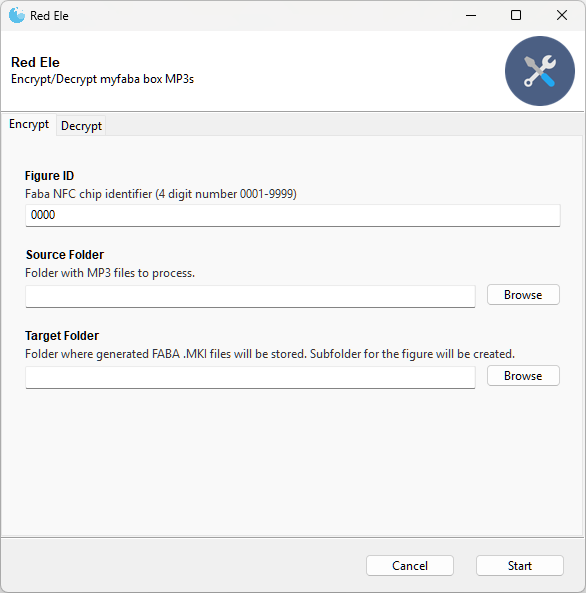
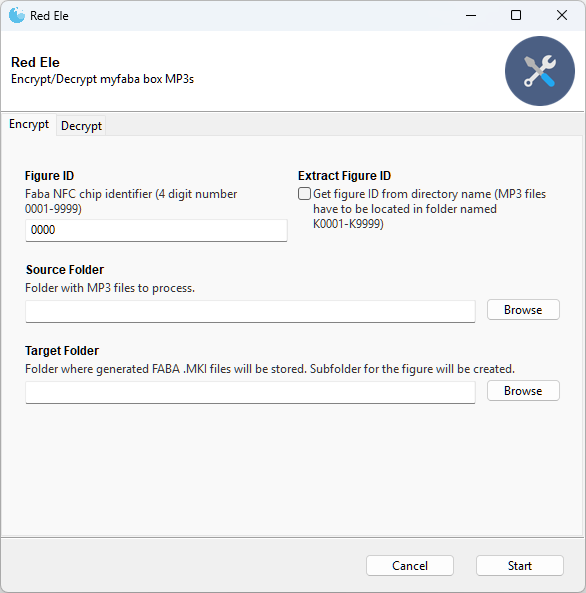
Add support for FigureID from directory; add build scripts for linux and MacOS (#31)
* Add build artifacts for macOS and Linux

* correct casing of python script in pyinstaller script

* Add support for getting Figure ID from directory name instead of commandline

diff --git a/python/redele.py b/python/redele.py
@@ -69,6 +69,7 @@ def cipher_file(input_filename):
                 outfile.write(bytes([modified_byte]))
                 pos += 1
 
+        print(f"Encryption complete. Output file: {output_filename}")
         return output_filename
     except IOError as e:
         print(f"Error processing {input_filename}: {e}")
@@ -98,7 +99,7 @@ def decipher_file(input_filename, output_filename):
 
                 pos += 1
 
-        print(f"Deciphering complete. Output file: {output_filename}")
+        print(f"Decryption complete. Output file: {output_filename}")
         return output_filename
     except IOError as e:
         print(f"Error processing {input_filename}: {e}")
@@ -122,6 +123,13 @@ def main():
         metavar="Figure ID",
         help="Faba NFC chip identifier (4 digit number 0001-9999)",
         default="0000"
+    )
+    encrypt_group.add_argument(
+        "-x",
+        "--extract-figure",
+        metavar="Extract Figure ID",
+        action="store_true",
+        help="Get figure ID from directory name (MP3 files have to be located in folder named K0001-K9999)",
     )
     encrypt_group.add_argument(
         "-s", 
@@ -178,42 +186,56 @@ def main():
         # every ID3 tag after all...
         mutagen.id3._tags.ID3Header.__init__ = utils.id3header_constructor_monkeypatch
         
-        if not re.match(r"^\d{4}$", args.figure_id):
-            print("Error: Figure ID must be exactly 4 digits.")
-            sys.exit(1)
+        count = 0
+        mp3_files = {}
+        if args.extract_figure:
+            for root, _, filenames in os.walk(args.source_folder):
+                for filename in filenames:
+                    full_path = Path(root) / filename
+                    match = re.search(r'[\\/]K(\d{4})$', root)
+                    if filename.lower().endswith(".mp3") and match:
+                        mp3_files.setdefault(match.group(1), []).append(full_path)
+                        count += 1
+            
+        else:
+            if not re.match(r"^\d{4}$", args.figure_id):
+                print("Error: Figure ID must be exactly 4 digits.")
+                sys.exit(1)
 
-        output_dir = os.path.join(args.target_folder, f"K{args.figure_id}")
-        os.makedirs(output_dir, exist_ok=True)
+            for root, _, filenames in os.walk(args.source_folder):
+                for filename in filenames:
+                    full_path = Path(root) / filename
+                    if filename.lower().endswith(".mp3"):
+                        mp3_files.setdefault(args.figure_id, []).append(full_path)
+                        count += 1
 
-        mp3_files = []
-        for root, _, filenames in os.walk(args.source_folder):
-            for filename in filenames:
-                full_path = Path(root) / filename
-                if filename.lower().endswith(".mp3"):
-                    mp3_files.append(str(full_path))
-        if not mp3_files:
+        if count == 0:
             print("No MP3 files found in the source folder.")
             sys.exit(1)
 
         iterator = 1
-        for file in mp3_files:
-            print(f"=========================[{iterator}/{len(mp3_files)}]")
-            print(f"Processing {file}...")
-            
-            iterator_str = f"{iterator:02d}"
-            new_title = f"K{args.figure_id}CP{iterator_str}"
-            source_file = os.path.join(args.source_folder, file)
-            target_file = os.path.join(output_dir, f"CP{iterator_str}")
+        for figure in mp3_files:
+            os.makedirs(Path(args.target_folder) / f"K{figure}", exist_ok=True)
+            filenum = 1
+            for file in mp3_files[figure]:
+                print(f"=========================[{iterator}/{count}]")
+                print(f"Processing {file}...")
+                
+                filenum_str = f"{filenum:02d}"
+                new_title = f"K{figure}CP{filenum_str}"
+                source_file = file
+                target_file = str(Path(args.target_folder) / f"K{figure}" / f"CP{filenum_str}")
 
-            shutil.copy(source_file, target_file)
-            clear_and_set_title(target_file, new_title)
+                shutil.copy(source_file, target_file)
+                clear_and_set_title(target_file, new_title)
 
-            encrypted_file = cipher_file(target_file)
-            os.remove(target_file)
+                encrypted_file = cipher_file(target_file)
+                os.remove(target_file)
 
-            iterator += 1
+                iterator += 1
+                filenum += 1
 
-        print(f"Processing complete. Copy the files from '{output_dir}' directory to your Faba box.")
+        print(f"Processing complete. Copy the files from '{args.target_folder}' directory to your Faba box.")
     
     if args.command=="decrypt":
         
@@ -226,7 +248,7 @@ def main():
                     mki_files.setdefault(str(rel_path), []).append(filename)
                     count += 1
 
-        if not mki_files:
+        if count == 0:
             print("No MKI files found in the source folder.")
             sys.exit(1)
 
